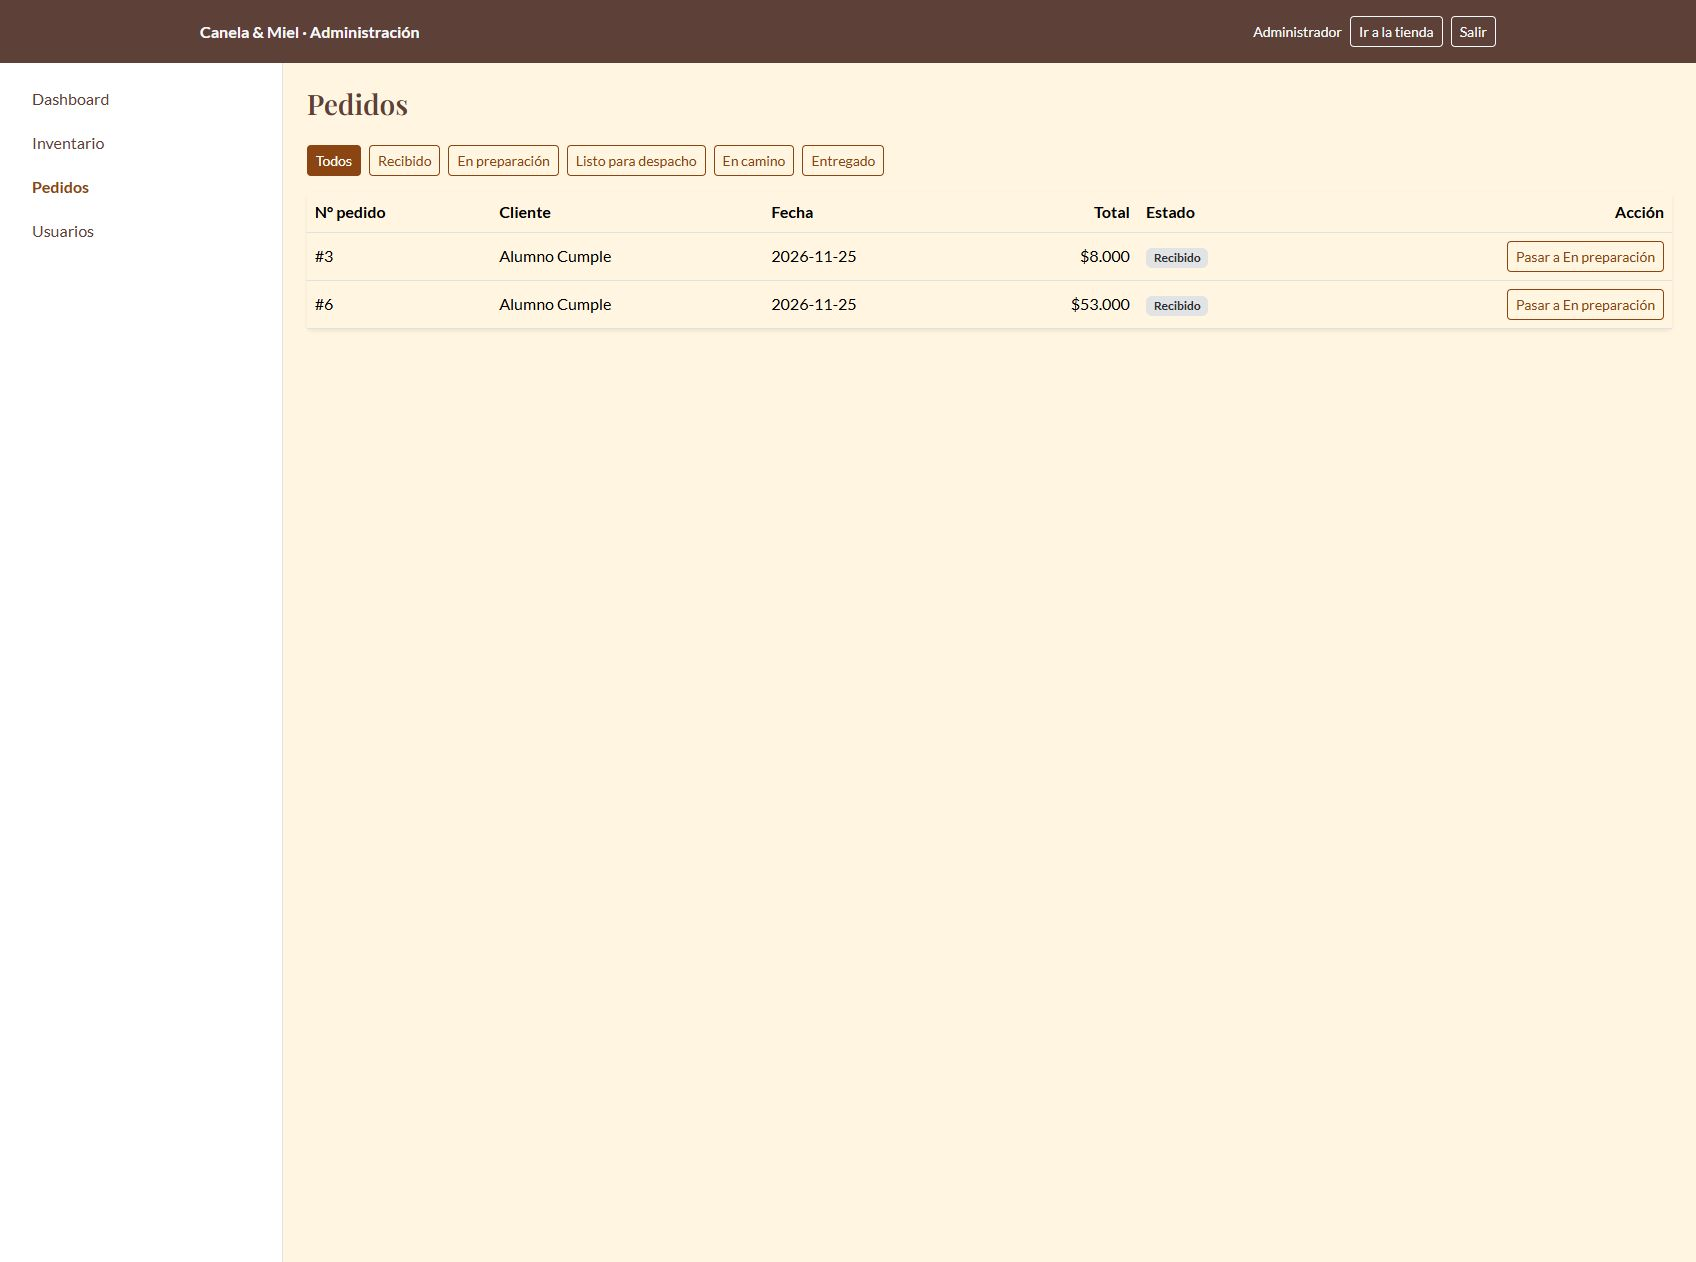
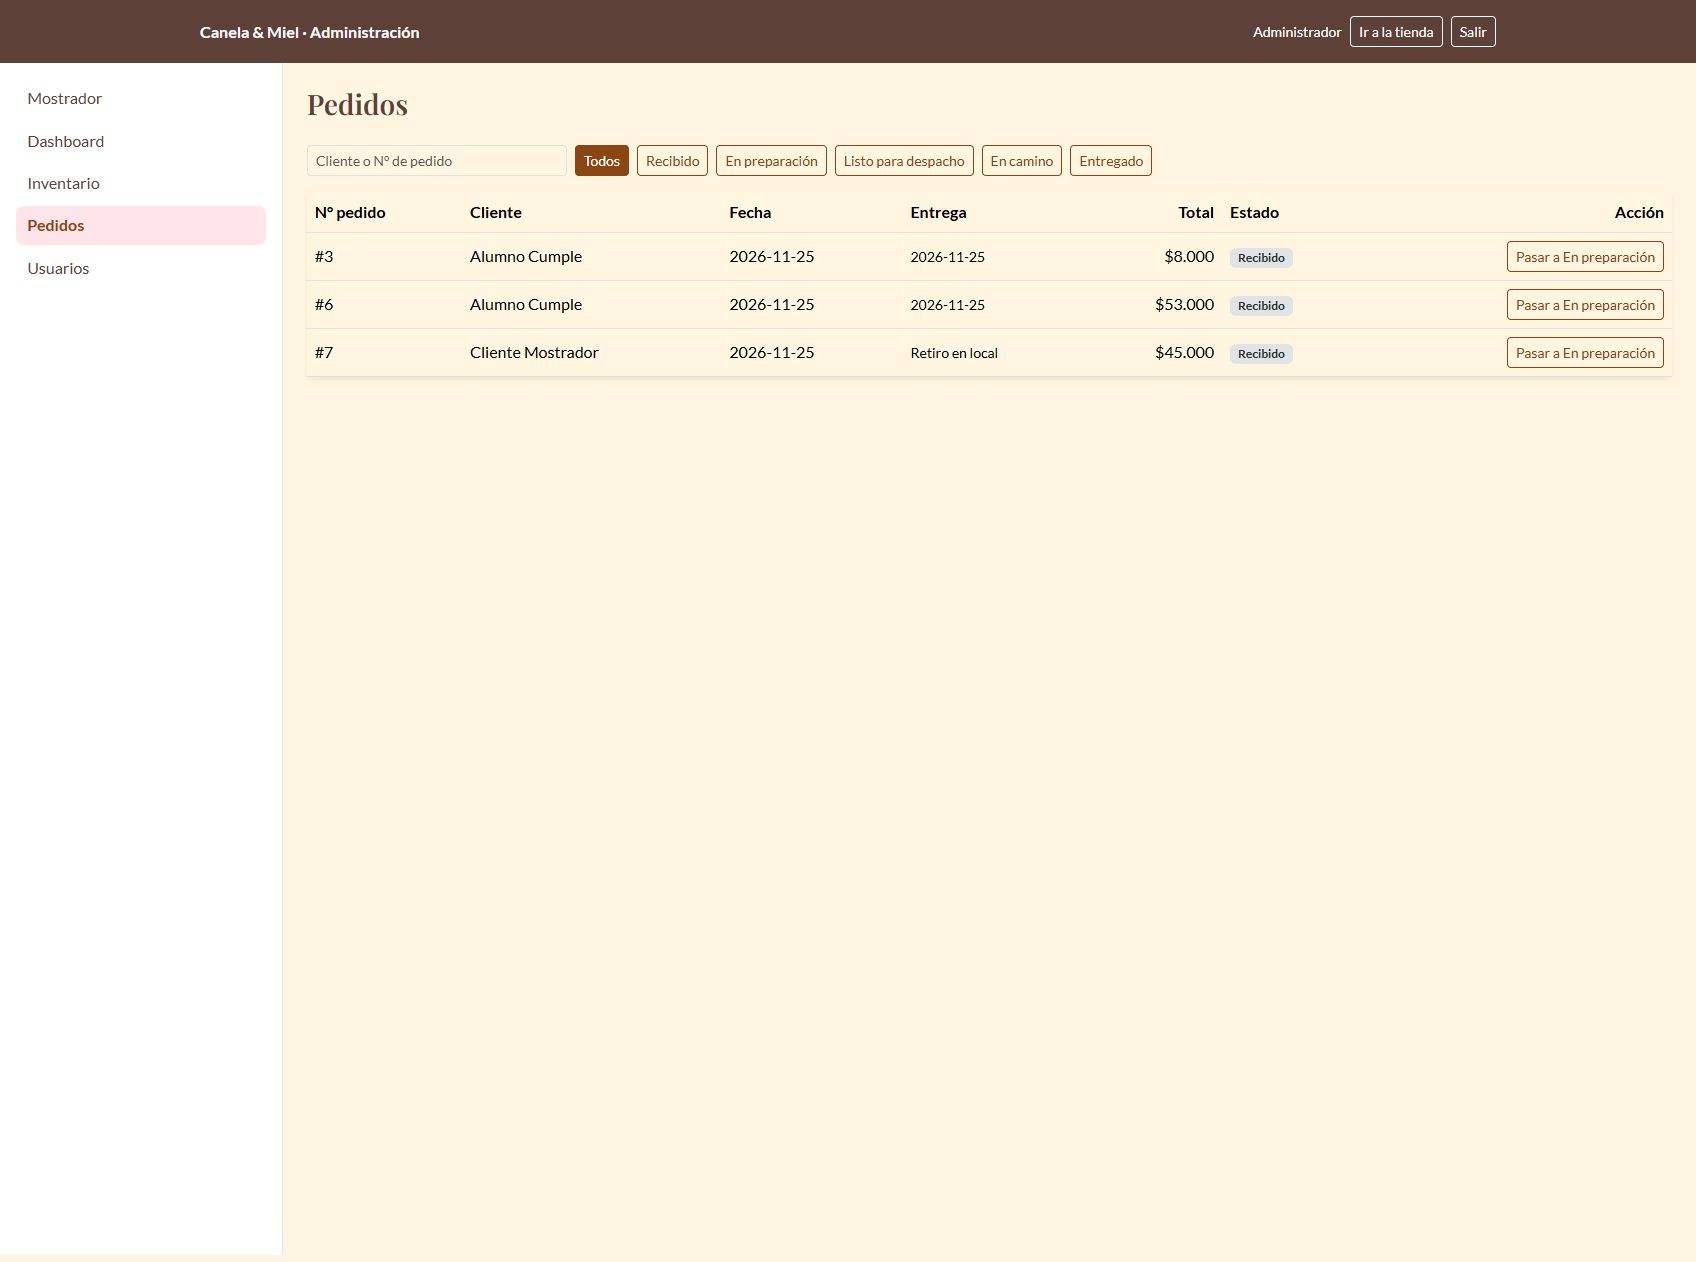
docs: documenta el inicio rapido, el POS y las capturas nuevas

diff --git a/docs/ers/ERS-Canela-y-Miel.md b/docs/ers/ERS-Canela-y-Miel.md
@@ -121,7 +121,7 @@ La regla de combinación de descuentos, la definición de "la torta", los avatar
 | RF-06 | Renovación de sesión | Renovar el access token con el refresh token cuando vence | Cliente / Admin | Alta |
 | RF-07 | Cierre de sesión | Borrar los tokens del navegador y volver al estado público | Cliente / Admin | Alta |
 | RF-08 | Carrito | Agregar, quitar y cambiar cantidades de productos | Cliente | Alta |
-| RF-09 | Crear pedido | Registrar un pedido con uno o más productos, fecha de entrega, dirección, teléfono y mensaje de la torta; calcular subtotal, descuento, envío y total | Cliente | Alta |
+| RF-09 | Crear pedido | Registrar un pedido con uno o más productos, fecha de entrega, dirección y teléfono (opcionales en mostrador), retiro en local y mensaje de la torta; calcular subtotal, descuento, envío y total | Cliente / Admin | Alta |
 | RF-10 | Descuentos del caso | Aplicar **solo el mayor** entre 50% (mayor de 50 años), 10% (`FELICES50` o Premium) y el porcentaje del cupón | Cliente | Alta |
 | RF-11 | Cupones | Validar un código activo (público) y usarlo como candidato a descuento al crear el pedido | Cliente | Alta |
 | RF-12 | Stock | Descontar stock al crear el pedido y rechazar si no alcanza | Sistema | Alta |
@@ -139,6 +139,7 @@ La regla de combinación de descuentos, la definición de "la torta", los avatar
 | RF-24 | Blog y recetas | Mostrar 3 tarjetas estáticas de recetas y consejos en el Home (contenido de demostración) | Visitante | Baja |
 | RF-25 | Boleta | Generar una vista imprimible del pedido con detalle, entrega y totales | Cliente | Media |
 | RF-26 | Mapa y entrega | Mostrar la ubicación de la tienda con OpenStreetMap en la confirmación y el seguimiento, junto a la fecha estimada | Cliente | Media |
+| RF-27 | Mostrador (POS) | Permitir al administrador crear pedidos para un cliente desde el local, con retiro sin envío, cupón y cálculo del servidor | Administrador | Media |
 
 ## 4. Requisitos no funcionales
 
@@ -226,7 +227,7 @@ Recibido → En preparación → Listo para despacho → En camino → Entregado
 | `Usuario` | id, nombre, correo único, password (BCrypt), teléfono, dirección, fecha de nacimiento, código promocional, correo institucional, preferencias, avatar, premium, activo | Muchos usuarios → 1 rol |
 | `Categoria` | id, nombre único | 1 categoría → muchos productos |
 | `Producto` | id, código único, nombre, descripción, precio, stock, porciones, imagen, activo | Muchos productos → 1 categoría |
-| `Pedido` | id, fecha, fecha de entrega, dirección, teléfono, subtotal, descuento, envio, total | 1 cliente → muchos pedidos; 1 estado → muchos pedidos; 1 cupón → muchos pedidos |
+| `Pedido` | id, fecha, fecha de entrega, dirección, teléfono, retiro, subtotal, descuento, envio, total | 1 cliente → muchos pedidos; 1 estado → muchos pedidos; 1 cupón → muchos pedidos |
 | `DetallePedido` | id, cantidad, precio unitario, subtotal, mensaje | Muchos detalles → 1 pedido; muchos detalles → 1 producto |
 | `EstadoPedido` | id, nombre único, orden único | 1 estado → muchos pedidos |
 | `Cupon` | id, código único, porcentaje, activo | 1 cupón → muchos pedidos |
@@ -326,11 +327,11 @@ La API se documenta en detalle en `docs/integracion/documento-integracion.md` y 
 
 ### 10.1 Backend
 
-**21 pruebas unitarias** con JUnit y Mockito (`mvn clean verify`):
+**22 pruebas unitarias** con JUnit y Mockito (`mvn clean verify`):
 
 | Clase | Qué verifica |
 |---|---|
-| `PedidoServiceTest` (9) | Descuento 10%, 50%, FELICES50, combinación con cupón, torta Duoc, torta única sin regalo, fecha pasada, stock insuficiente y salto de estado |
+| `PedidoServiceTest` (10) | Descuento 10%, 50%, FELICES50, combinación con cupón, torta Duoc, torta única sin regalo, retiro sin envío y sin dirección, fecha pasada, stock insuficiente y salto de estado |
 | `ReglasClienteTest` (4) | Edad, mayoría de 50, cumpleaños por día/mes y correos institucionales |
 | `UsuarioServiceTest` (5) | Edición del perfil, limpieza de campos, avatar inválido y cambio de contraseña |
 | `JwtServiceTest` (3) | Token de acceso, refresh y firma ajena |
@@ -367,7 +368,8 @@ Comando del reporte: `npm run test:coverage` (genera `frontend/coverage/`). Últ
 9. Perfil: editar datos, elegir avatar, guardar preferencias y cambiar contraseña.
 10. Catálogo: filtros por categoría, porciones y precio; búsqueda por nombre y código; compartir.
 11. Confirmación: fecha de entrega, mapa, boleta imprimible y seguimiento con stepper.
-12. Cierre de sesión y vuelta al estado público.
+12. Mostrador: crear un pedido con retiro (sin envío) y otro con despacho; el stock y el total cambian.
+13. Cierre de sesión y vuelta al estado público.
 
 ## 11. Despliegue y operación
 
@@ -412,7 +414,7 @@ Usuarios de prueba:
 | Refresh token sin revocación | Un token robado sirve 7 días | Aceptado para el alcance; se podría agregar una tabla de revocación |
 | Token en `localStorage` | Vulnerable a XSS | No se inyecta HTML de terceros; se podría migrar a cookie `httpOnly` |
 | `ddl-auto=update` | Cambios de esquema sin control | Usar migraciones (Flyway) en un entorno real |
-| Datos de demostración | El dashboard se ve vacío sin pedidos | Crear pedidos durante la presentación |
+| Datos de demostración | El dashboard se ve vacío sin pedidos | La semilla crea 14 pedidos en una base nueva; si ya hay pedidos, se conserva la base |
 | Dependencia de Docker | Sin Docker no hay base de datos | El README explica la instalación y el volumen |
 
 ## 14. Glosario de archivos clave

diff --git a/docs/capturas.md b/docs/capturas.md
@@ -10,9 +10,15 @@ Este archivo no reemplaza el manual: es la lista para que Anaís lo actualice.
 - Usuarios:
   - `admin@canelaymiel.cl` / `Admin1234` (ADMIN).
   - `cliente@canelaymiel.cl` / `Cliente1234` (CLIENTE Premium).
-  - `ui.duoc.19fa88@duoc.cl` / `Clave1234` (cumpleaños hoy, avatar y preferencias; sirve para la torta gratis).
-- Pedidos de ejemplo ya creados: **#6** (2 tortas, mensaje, entrega y boleta) y **#3** (una torta).
+  - `maria@duoc.cl` / `Cliente1234` (FELICES50 y correo Duoc).
+  - `pedro@correo.cl` / `Cliente1234` (mayor de 50).
+  - `mostrador@canelaymiel.cl` / `Cliente1234` (cliente para el POS).
+  - `ui.duoc.19fa88@duoc.cl` / `Clave1234` (cumpleaños hoy, avatar y preferencias).
+- Pedidos: en una **base nueva** la semilla crea 14 pedidos de los últimos 7 días. En la base actual existen
+  el #3 y el #6; usa los que aparezcan en el panel.
 - Para la boleta impresa: entrar al pedido, pulsar **Ver boleta** y capturar la vista previa de impresión.
+- Las capturas del panel (`/admin`, inventario, pedidos y usuarios) deben tomarse **después** de los últimos
+  cambios del mostrador y las búsquedas.
 
 ## Lista de capturas
 
@@ -32,14 +38,15 @@ Este archivo no reemplaza el manual: es la lista para que Anaís lo actualice.
 | 12 | Inicio de sesión | `/login` | Visitante | Formulario limpio |
 | 13 | Perfil | `/perfil` | `ui.duoc` | Datos, avatar, beneficios, contraseña, preferencias e historial |
 | 14 | Edición del perfil | `/perfil` → Editar | `ui.duoc` | Formulario con los 6 avatares y vista previa |
-| 15 | Panel admin | `/admin` | `admin@...` | KPIs y gráfico con los pedidos de ejemplo |
-| 16 | Inventario | `/admin/inventario` | `admin@...` | Tabla con código, categoría, precio y stock |
-| 17 | Pedidos | `/admin/pedidos` | `admin@...` | Pedidos #3 y #6 y el botón de estado |
-| 18 | Usuarios | `/admin/usuarios` | `admin@...` | Lista con rol y Premium |
-| 19 | Swagger | `http://localhost:8080/swagger-ui.html` | — | Los 6 grupos, las 33 operaciones y el botón Authorize |
-| 20 | Swagger autorizado | Igual, tras `POST /auth/login` + Authorize | ADMIN | El diálogo con "Authorized" |
-| 21 | Swagger 403 | `GET /usuarios` con token CLIENTE | CLIENTE | Respuesta 403 |
-| 22 | Swagger registro | `POST /auth/registro` con FELICES50 y fecha | — | Respuesta 201 con el usuario creado |
+| 15 | Panel admin | `/admin` | `admin@...` | KPIs, gráfico, últimos pedidos y stock bajo |
+| 16 | Mostrador (POS) | `/admin/mostrador` | `admin@...` | Productos, pedido en curso, cliente, retiro y total |
+| 17 | Inventario | `/admin/inventario` | `admin@...` | Tabla con búsqueda y filtro de stock bajo |
+| 18 | Pedidos | `/admin/pedidos` | `admin@...` | Búsqueda, entrega y botón de estado |
+| 19 | Usuarios | `/admin/usuarios` | `admin@...` | Búsqueda, Premium y rol |
+| 20 | Swagger | `http://localhost:8080/swagger-ui.html` | — | Los 6 grupos, las 33 operaciones y el botón Authorize |
+| 21 | Swagger autorizado | Igual, tras `POST /auth/login` + Authorize | ADMIN | El diálogo con "Authorized" |
+| 22 | Swagger 403 | `GET /usuarios` con token CLIENTE | CLIENTE | Respuesta 403 |
+| 23 | Swagger registro | `POST /auth/registro` con FELICES50 y fecha | — | Respuesta 201 con el usuario creado |
 
 ## Documento de cobertura (Anaís)
 

diff --git a/docs/integracion/documento-integracion.md b/docs/integracion/documento-integracion.md
@@ -176,11 +176,15 @@ Todos los errores usan la misma estructura:
   "fechaEntrega": "2026-11-27",
   "direccion": "Av. Siempre Viva 123",
   "telefono": "912345678",
+  "retiro": false,
   "detalles": [
     { "productoId": 1, "cantidad": 2, "mensaje": "Feliz cumpleaños" }
   ]
 }
 ```
+
+En los pedidos de **mostrador**, `direccion` y `telefono` pueden omitirse y `retiro` va en `true`;
+en ese caso el envío es **$0**. El checkout web sigue exigiendo dirección y teléfono.
 
 Respuesta `201`:
 
@@ -191,6 +195,7 @@ Respuesta `201`:
   "fechaEntrega": "2026-11-27",
   "direccion": "Av. Siempre Viva 123",
   "telefono": "912345678",
+  "retiro": false,
   "cliente": "Cliente Demo",
   "correo": "cliente@canelaymiel.cl",
   "estado": "Recibido",
@@ -321,31 +326,38 @@ Componente: setProductos(...) → React vuelve a dibujar
 
 ### 6.3 Capturas del frontend consumiendo la API
 
+> Las capturas se actualizan después de la última ronda de cambios del panel (mostrador y búsquedas).
+> La lista completa, con URL y usuario, está en [`docs/capturas.md`](../capturas.md).
+
 ![Inicio de sesión](img/01-inicio-sesion.jpeg)
 
 **Figura 1.** Formulario de inicio de sesión. Envía las credenciales a `POST /auth/login` y guarda los tokens en el navegador.
 
 ![Dashboard con datos reales](img/02-dashboard.jpeg)
 
-**Figura 2.** Dashboard del administrador. Los KPIs y el gráfico se calculan con pedidos, productos y usuarios obtenidos de la API.
+**Figura 2.** Dashboard del administrador. Los KPIs, el gráfico, los últimos pedidos y el stock bajo se calculan con datos reales de la API.
 
 ![Inventario](img/03-inventario.jpeg)
 
-**Figura 3.** Inventario. La tabla se llena con `GET /productos`; las acciones usan `POST`, `PUT` y `DELETE`.
+**Figura 3.** Inventario. La tabla se llena con `GET /productos`; permite buscar por nombre o código, filtrar stock bajo y usar `POST`, `PUT` y `DELETE`.
 
 ![Pedidos](img/04-pedidos.jpeg)
 
-**Figura 4.** Pedidos. Se listan con `GET /pedidos`, se filtran por estado y el botón de acción usa `PATCH /pedidos/{id}/estado`.
+**Figura 4.** Pedidos. Se listan con `GET /pedidos`, se buscan por cliente o número, muestran la entrega y el botón de acción usa `PATCH /pedidos/{id}/estado`.
 
 ![Usuarios](img/05-usuarios.jpeg)
 
-**Figura 5.** Usuarios. Se listan con `GET /usuarios` y el selector de rol ejecuta `PUT /usuarios/{id}`.
+**Figura 5.** Usuarios. Se listan con `GET /usuarios`, se buscan por nombre o correo y el selector de rol ejecuta `PUT /usuarios/{id}`.
 
 ![Swagger](img/06-swagger.jpeg)
 
 **Figura 6.** Swagger con el esquema Bearer y los endpoints documentados. El botón **Authorize** permite probar con el token de acceso.
 
-> Las capturas se tomaron con los pedidos de demostración **#3 y #6** que quedaron en la base local. Para repetirlas, crea pedidos nuevos y vuelve a capturar las figuras.
+![Mostrador](img/07-mostrador.jpeg)
+
+**Figura 7.** Mostrador (POS). El administrador arma el pedido y lo envía con `POST /pedidos`; el retiro en el local no cobra envío.
+
+> Las capturas se tomaron con los pedidos de demostración **#3, #6 y #7**. En una base nueva, la semilla crea 14 pedidos de los últimos 7 días. Para repetir las capturas, crea pedidos nuevos y vuelve a capturar las figuras.
 
 ## 7. Verificación de entrega
 

diff --git a/README.md b/README.md
@@ -9,7 +9,21 @@ Incluye frontend en React, backend en Spring Boot y base de datos MySQL en Docke
 - Node.js 20 o superior
 - Docker Desktop encendido
 
-## Puesta en marcha (en este orden)
+## Inicio rápido (Windows)
+
+Doble clic en **`iniciar.cmd`** (o ejecuta `.\iniciar.ps1`). El script:
+
+1. Crea `.env` si no existe.
+2. Levanta MySQL y espera a que esté `healthy`.
+3. Instala las dependencias del frontend si faltan.
+4. Inicia el backend y el frontend en ventanas separadas.
+5. Abre `http://localhost:5173` en el navegador.
+
+Para detener todo usa **`detener.cmd`** (o `.\detener.ps1`): no borra los datos.
+
+La primera vez puede tardar más porque Maven y npm descargan dependencias.
+
+## Puesta en marcha manual (en este orden)
 
 ### 1. Variables de entorno
 
@@ -90,10 +104,16 @@ Se crean al arrancar el backend con la base vacía.
 
 | Rol | Correo | Contraseña | Nota |
 |---|---|---|---|
-| ADMIN | admin@canelaymiel.cl | Admin1234 | Acceso al panel |
+| ADMIN | admin@canelaymiel.cl | Admin1234 | Acceso al panel y al mostrador |
 | CLIENTE | cliente@canelaymiel.cl | Cliente1234 | Premium: 10% de descuento |
+| CLIENTE | maria@duoc.cl | Cliente1234 | FELICES50 y correo institucional |
+| CLIENTE | pedro@correo.cl | Cliente1234 | Mayor de 50: 50% de descuento |
+| CLIENTE | mostrador@canelaymiel.cl | Cliente1234 | Cliente para pedidos del local |
 
 Cupón de prueba: `MIEL10` (10%, activo). `CANELA20` existe, pero está inactivo.
+
+**Datos de demostración:** en una base nueva se crean **14 pedidos de los últimos 7 días** para que el
+dashboard y el panel de pedidos no aparezcan vacíos. Si la base ya tiene pedidos, no se duplican.
 
 ## API
 
@@ -126,6 +146,12 @@ El stock se descuenta al crear y se devuelve al eliminar. Los estados solo avanz
 - El token de acceso dura **15 minutos** y el refresh **7 días**. Van en `Authorization: Bearer <token>`.
 - La clave para firmar los tokens está en `JWT_SECRET` (`.env`).
 - En Swagger: ejecuta `POST /auth/login`, copia el `token` y pégalo en **Authorize**.
+
+### Mostrador (POS)
+
+En `/admin/mostrador` el administrador puede crear un pedido para un cliente sin pasar por el carrito:
+busca productos, ajusta cantidades, elige cliente y entrega (retiro en el local o despacho), fecha y cupón.
+El retiro en el local **no cobra envío**; el backend recalcula precios, descuentos y stock.
 
 ### Sesión en el frontend
 

diff --git a/docs/alcance.md b/docs/alcance.md
@@ -67,6 +67,10 @@ Los cupones `MIEL10` (activo) y `CANELA20` (inactivo) se conservan porque sostie
 | Animaciones | **CSS propio** | Un solo archivo `animaciones.css`, 200–400 ms, hover con elevación, fade-in con `IntersectionObserver` y `prefers-reduced-motion` |
 | Skeletons | **Se implementan** | Estados de carga en catálogo, detalle, perfil y seguimiento |
 
+**Extra del equipo (fuera del caso):** se agregó un **Mostrador (POS)** en `/admin/mostrador` para que el
+administrador tome pedidos en el local. El retiro en local no cobra envío; el despacho mantiene los $8.000.
+También se sembraron 14 pedidos de ejemplo en una base nueva para que el panel no arranque vacío.
+
 ## 5. Fuera de alcance (documentado)
 
 - Notificaciones push o en tiempo real del estado del pedido.
